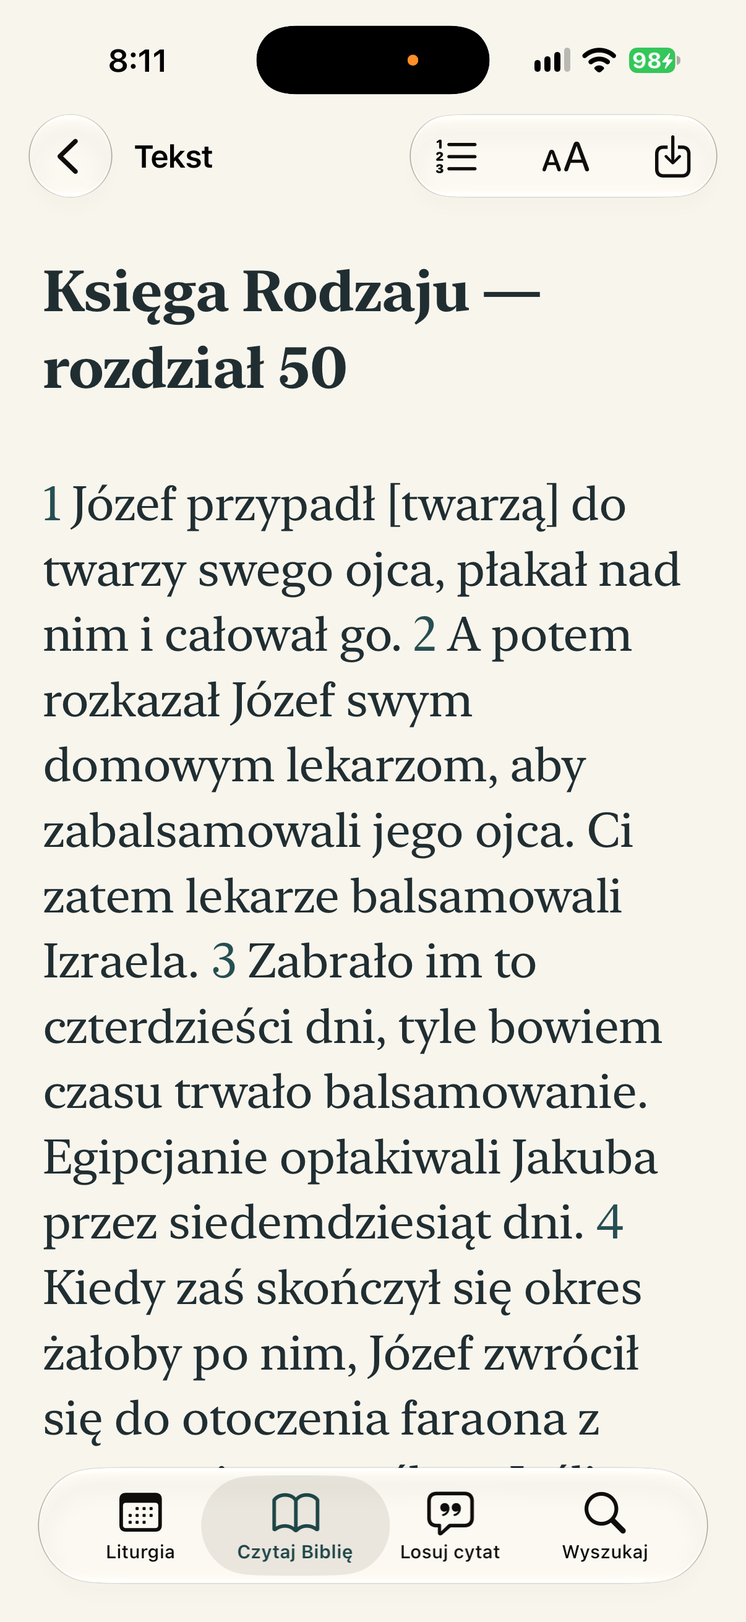
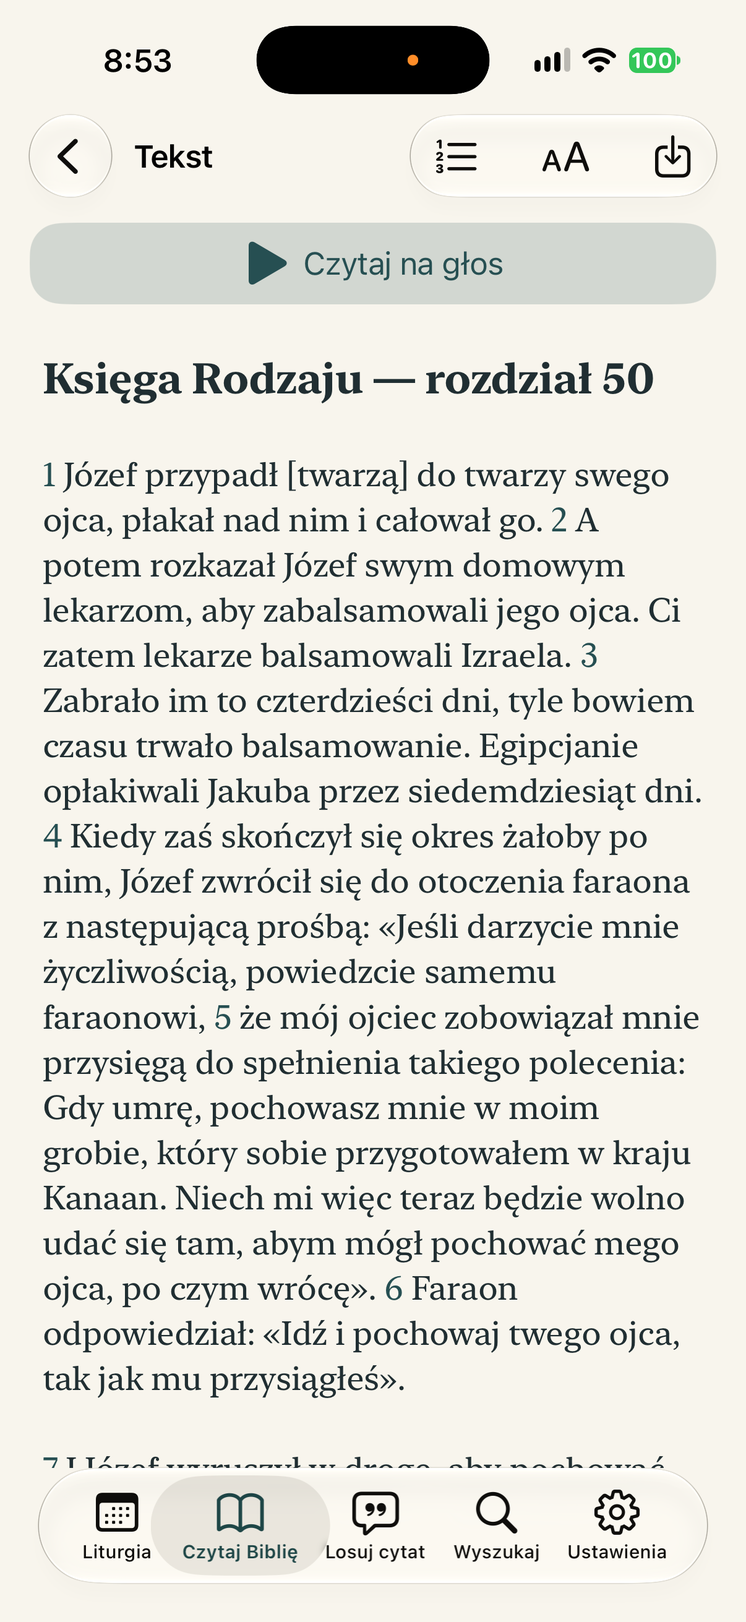
Sprawdź mowę i dostępność na iPhonie oraz odśwież zrzuty wydania

diff --git a/ios/UITests/InterfaceTests.swift b/ios/UITests/InterfaceTests.swift
@@ -1,3 +1,4 @@
+import AVFoundation
 import XCTest
 
 @MainActor
@@ -102,13 +103,68 @@ final class InterfaceTests: XCTestCase {
                                 ["Pauza", "Wstrzymaj", "Wstrzymaj odtwarzanie", "Pause"], "Pause", "playpause")
         let systemPause = system.descendants(matching: .any).matching(names).firstMatch
         let centerPause = center.descendants(matching: .any).matching(names).firstMatch
-        if systemPause.waitForExistence(timeout: 5) { systemPause.tap() }
-        else if centerPause.waitForExistence(timeout: 5) { centerPause.tap() }
-        else { throw XCTSkip("W bieżącym układzie Centrum sterowania XCTest nie znalazł kontrolki odtwarzania.") }
+        // Centrum może otworzyć ostatnio używaną stronę zamiast Ulubionych.
+        for _ in 0..<3 {
+            if systemPause.waitForExistence(timeout: 2) || centerPause.exists { break }
+            let media = system.descendants(matching: .any).matching(NSPredicate(format:
+                "identifier CONTAINS[c] %@ OR label CONTAINS[c] %@", "NowPlaying", "Teraz odtwarzane")).firstMatch
+            if media.exists { media.press(forDuration: 0.8); break }
+            let page = system.coordinate(withNormalizedOffset: CGVector(dx: 0.76, dy: 0.46))
+            page.press(forDuration: 0.05, thenDragTo: system.coordinate(withNormalizedOffset: CGVector(dx: 0.76, dy: 0.87)))
+        }
+        if !systemPause.exists && !centerPause.exists {
+            // Wyspa odtwarzania to drugi systemowy punkt sterowania na obsługiwanych iPhone’ach.
+            XCUIDevice.shared.press(.home)
+            let island = system.descendants(matching: .any).matching(NSPredicate(format:
+                "identifier CONTAINS[c] %@ OR label CONTAINS[c] %@", "DynamicIsland", "dostępna biblia,")).firstMatch
+            if island.waitForExistence(timeout: 2) { island.press(forDuration: 1) }
+        }
+        if systemPause.exists { systemPause.tap() }
+        else if centerPause.waitForExistence(timeout: 3) { centerPause.tap() }
+        else {
+            throw XCTSkip("W bieżącym układzie Centrum sterowania XCTest nie znalazł kontrolki odtwarzania.")
+        }
         XCUIDevice.shared.press(.home)
         app.activate()
         XCTAssertTrue(app.buttons["Wznów czytanie"].waitForExistence(timeout: 5))
         app.buttons["Zatrzymaj czytanie"].tap()
+    }
+
+    func testPrzerwaniePrzezDrugaSesjeAudio() throws {
+        #if targetEnvironment(simulator)
+        throw XCTSkip("Próbę arbitrażu dwóch procesów audio wykonujemy na fizycznym iPhonie.")
+        #else
+        app.buttons["Czytaj"].tap()
+        _ = try result()
+        app.buttons["Czytaj na głos"].tap()
+        XCTAssertTrue(app.buttons["Wstrzymaj czytanie"].waitForExistence(timeout: 8))
+        // Osobny proces testujący staje się drugim odtwarzaczem. Nie wykonuje połączenia telefonicznego.
+        let runner = XCUIApplication(bundleIdentifier: try XCTUnwrap(Bundle.main.bundleIdentifier))
+        runner.activate()
+        let session = AVAudioSession.sharedInstance()
+        try session.setCategory(.playback, mode: .default)
+        try session.setActive(true)
+        defer { try? session.setActive(false, options: .notifyOthersOnDeactivation) }
+        let engine = AVAudioEngine(), player = AVAudioPlayerNode()
+        engine.attach(player)
+        let format = try XCTUnwrap(AVAudioFormat(standardFormatWithSampleRate: 44100, channels: 1))
+        let buffer = try XCTUnwrap(AVAudioPCMBuffer(pcmFormat: format, frameCapacity: 44100))
+        buffer.frameLength = buffer.frameCapacity
+        let samples = try XCTUnwrap(buffer.floatChannelData?[0])
+        for index in 0..<Int(buffer.frameLength) {
+            samples[index] = 0.015 * sin(2 * .pi * 220 * Float(index) / 44100)
+        }
+        engine.connect(player, to: engine.mainMixerNode, format: format)
+        try engine.start()
+        defer { engine.stop() }
+        let played = expectation(description: "Drugi proces odtworzył dźwięk")
+        player.scheduleBuffer(buffer, completionCallbackType: .dataPlayedBack) { _ in played.fulfill() }
+        player.play()
+        wait(for: [played], timeout: 5)
+        app.activate()
+        XCTAssertTrue(app.buttons["Czytaj na głos"].waitForExistence(timeout: 8))
+        XCTAssertFalse(app.buttons["Wznów czytanie"].exists)
+        #endif
     }
 
     func testUstawieniaSyntezyITrwalosc() throws {

diff --git a/ios/UITests/VoiceOverTests.swift b/ios/UITests/VoiceOverTests.swift
@@ -15,10 +15,21 @@ final class VoiceOverTests: XCTestCase {
         defer { if !wasEnabled { try? voice.disable() } }
         let center = CGVector(dx: 0.5, dy: 0.5)
         func focus(_ element: XCUIElement, _ label: String) throws {
-            element.coordinate(withNormalizedOffset: center).tap()
-            let said = try voice.currentSpeech().utterance
-            print("VoiceOver podczas próby syntezy: " + said)
-            XCTAssertTrue(said.contains(label), said)
+            let banner = XCUIApplication(bundleIdentifier: "com.apple.springboard")
+                .descendants(matching: .any)["NotificationShortLookView"]
+            for _ in 0..<2 {
+                if banner.exists {
+                    let hidden = XCTNSPredicateExpectation(predicate: NSPredicate(format: "exists == false"), object: banner)
+                    XCTAssertEqual(XCTWaiter.wait(for: [hidden], timeout: 18), .completed)
+                }
+                element.coordinate(withNormalizedOffset: center).tap()
+                let said = try voice.currentSpeech().utterance
+                if said.contains(label) {
+                    print("VoiceOver potwierdził: " + label)
+                    return
+                }
+            }
+            XCTFail("VoiceOver nie potwierdził elementu: " + label)
         }
         func activate() { app.coordinate(withNormalizedOffset: center).doubleTap() }
         try focus(app.tabBars.buttons["Ustawienia"], "Ustawienia")
@@ -106,6 +117,14 @@ final class VoiceOverTests: XCTestCase {
         XCTAssertTrue(result.contains("Czytaj na głos"), String(result.prefix(120)))
         let text = try voice.moveForward().utterance
         XCTAssertTrue(text.localizedCaseInsensitiveContains("czytanie") || text.contains("20"), String(text.prefix(120)))
+        app.buttons["Czytaj na głos"].coordinate(withNormalizedOffset: center).tap()
+        app.coordinate(withNormalizedOffset: center).doubleTap()
+        let pause = app.buttons["Wstrzymaj czytanie"]
+        XCTAssertTrue(pause.waitForExistence(timeout: 8))
+        pause.coordinate(withNormalizedOffset: center).tap()
+        XCTAssertTrue(try voice.currentSpeech().utterance.contains("Wstrzymaj czytanie"))
+        XCTAssertTrue(try voice.moveForward().utterance.contains("Czytaj od początku"))
+        XCTAssertTrue(pause.exists)
         let back = app.navigationBars.buttons.firstMatch
         back.coordinate(withNormalizedOffset: center).tap()
         app.coordinate(withNormalizedOffset: center).doubleTap()

diff --git a/ios/UITests/VisualTests.swift b/ios/UITests/VisualTests.swift
@@ -146,6 +146,15 @@ final class VisualTests: XCTestCase {
         reveal(link)
         link.tap()
         XCTAssertTrue(app.wait(for: .runningBackground, timeout: 10) || app.state == .runningBackgroundSuspended)
+        let browsers = ["com.apple.mobilesafari", "com.google.chrome.ios", "org.mozilla.ios.Firefox", "com.microsoft.msedge"]
+        if let browser = browsers.map({ XCUIApplication(bundleIdentifier: $0) }).first(where: { $0.state == .runningForeground }) {
+            let repository = browser.descendants(matching: .any).matching(NSPredicate(
+                format: "label CONTAINS[c] %@ OR value CONTAINS[c] %@",
+                "puszkin-dev/dostepna-biblia", "puszkin-dev/dostepna-biblia")).firstMatch
+            XCTAssertTrue(repository.waitForExistence(timeout: 15), "Przeglądarka nie potwierdziła strony repozytorium.")
+        } else {
+            XCTFail("Nie potwierdzono otwarcia w systemowej przeglądarce.")
+        }
         app.activate()
         app.navigationBars.buttons.firstMatch.tap()
         XCTAssertTrue(app.tabBars.buttons["Ustawienia"].isSelected)
@@ -166,6 +175,28 @@ final class VisualTests: XCTestCase {
         XCTAssertTrue(app.buttons["Zatrzymaj czytanie"].isHittable)
         try app.performAccessibilityAudit(for: [.contrast, .dynamicType, .textClipped])
         app.buttons["Zatrzymaj czytanie"].tap()
+    }
+
+    func testAktualneEkranyPublikacji() throws {
+        capture("01-liturgia")
+        app.tabBars.buttons["Czytaj Biblię"].tap()
+        let chapters = app.sliders["Wybierz rozdział"]
+        expectation(for: NSPredicate(format: "enabled == true"), evaluatedWith: chapters)
+        waitForExpectations(timeout: 35)
+        chapters.adjust(toNormalizedSliderPosition: 1)
+        XCTAssertEqual(chapters.value as? String, "50")
+        capture("02-wybor-ksiegi")
+        app.buttons["Czytaj"].tap()
+        XCTAssertTrue(app.textViews["tekstWyniku"].waitForExistence(timeout: 35))
+        capture("03-czytanie")
+        app.buttons["Przejdź do wersetu"].tap()
+        XCTAssertTrue(app.tables.cells.firstMatch.waitForExistence(timeout: 5))
+        capture("04-wersety")
+        app.tabBars.buttons["Ustawienia"].tap()
+        XCTAssertTrue(app.buttons["Odsłuchaj próbkę"].exists)
+        capture("05-ustawienia")
+        app.tabBars.buttons["Losuj cytat"].tap()
+        capture("06-losowanie")
     }
 }
 

diff --git a/docs/task-memory/czytanie-glos-01a21e18-12a1-7263-8438-22872efcb118/FINAL_REPORT.md b/docs/task-memory/czytanie-glos-01a21e18-12a1-7263-8438-22872efcb118/FINAL_REPORT.md
@@ -1,17 +1,59 @@
 # Czytanie na głos i Ustawienia
 
-Etap: działający czytnik i ustawienia. Trwają końcowe testy urządzenia, audyt i sprawdzenie lokalnego wydania. Pełna specyfikacja w ios/ustawienia.txt.
+Aplikacja **dostępna biblia 1.0 (9)** ma „Czytaj na głos” nad tekstem i piątą kartę Ustawienia. Syntezę dostarcza AVSpeechSynthesizer na urządzeniu; głos nie jest powiązany z głosem VoiceOver. Wspólna kolejka obejmuje akapity rzeczywiście otwartego tekstu, nie nazwy przycisków. Próbka nie nakłada się na czytanie. Odejście z czytnika zatrzymuje go, natomiast rozpoczęty tekst można odtwarzać w tle. Przyciski pauzy, kontynuacji i stopu współpracują z AVAudioSession i MediaPlayer; konfiguracja dla ekranu blokady sama w sobie nie jest dowodem sprzętowym.
+
+Nad czytaniem jest szeroki przycisk z podpisem. Po uruchomieniu dołączają restart i stop. Przy największych literach są to trzy równe przyciski z czytelnymi symbolami oraz pełnymi nazwami VoiceOver; tekst Pisma pozostaje poniżej. Sekcja wyglądu prowadzi do istniejącego suwaka, nie tworzy drugiej kopii ustawienia. Ekran „O programie” ma nagłówki, pełne nazwiska, wyjaśnienie pochodzenia i polskie etykiety łączy. Kolory zależą od systemu. Oględziny zrzutów wykonał agent, nie osoba widząca.
+
+**Źródła i publikacja.** Oryginał: [repozytorium Windows](https://github.com/puszkin-dev/dostepna-biblia/) i Dokumentacja.txt. Aplikacja pobiera czytania z [TwojaBiblia.pl](https://twojabiblia.pl/); serwis w stopce wskazuje własną zgodę wydawcy. [Wydawnictwo Pallottinum o wydaniu V i prawach](https://biblia.pl/informacje-o-wydaniu/). W dostarczonym projekcie nie ma potwierdzenia odrębnych praw do dystrybucji mobilnej i wykorzystania wszystkich treści liturgicznych. Nie deklarowano takiej zgody ani niczego nie wysyłano. Dokumentacja techniczna: [synteza Apple](https://developer.apple.com/documentation/avfaudio/avspeechsynthesizer/), [sterowanie systemowe](https://developer.apple.com/documentation/mediaplayer/handling-external-player-events-notifications).
+
[1 lines of base64/hex data omitted]
+
+## Odbiór na fizycznym iPhonie 17 Pro
+
+Xcode 27.2, iOS 27.2.1, połączenie przewodowe przez Maca. Automat wywoływał rzeczywisty syntezator i rzeczywistą usługę VoiceOver. Nie jest to odsłuch akustyczny ani ocena osoby widzącej. Wyniki serii zawierających błędy podano bez dodawania ponowień do jednego fikcyjnego wyniku.
+
+| Punkt §10 | Próba i wynik |
+|---|---|
+| 1. Liturgia | Pobrano czytania dnia. W otwartym tekście uruchomiono syntezę i przetestowano sterowanie. |
+| 2. Psalm | Suwak „Część liturgii” → „Psalm”. Serwis zwrócił tekst; iPhone uruchomił syntezę i reagował na jej kontrolki. |
+| 3. Biblia | Otworzono tekst Księgi Rodzaju i sprawdzono start, pauzę, wznowienie, restart i zatrzymanie. Test czytnika z numerowanym rozdziałem objął też werset i powrót do tekstu. |
+| 4. Polskie głosy | Telefon zwrócił 112 pozycji z kodem rozpoczynającym się od „pl”, m.in. Zosia, Zosia (rozszerzony), Adam i Bogdan. To głosy dostępne poprzez API, również rozszerzenia, a nie lista fabryczna. Nie odsłuchiwano wszystkich 112. |
+| 5. Próbka | Ten sam silnik przeczytał próbkę; po zakończeniu wrócił przycisk uruchomienia, test na telefonie. |
+| 6. Szybkość | 11 pozycji od minimum do maksimum Apple, szósta odpowiada szybkości domyślnej. Zmieniono pozycję i odczytano ją po restarcie. Nie jest to procent szybkości VoiceOver. |
+| 7. Głośność | 11 pozycji od ciszy do 100 procent, bez zmiany głośności urządzenia. Zmieniono wartość, sprawdzono pamięć i reset. |
+| 8. Przyciski | Oddzielono przygotowanie silnika od rozpoczętej syntezy. Pauza, wznowienie, od początku i stop przeszły na fizycznym urządzeniu. |
+| 9. Trwałość | Po zamknięciu i ponownym uruchomieniu zachowały się głos, tempo i głośność. W MowaTelefon2 test błędnie żądał dokładnie ósmej pozycji po przeciągnięciu do 70 procent toru; poprawiony test porównuje rzeczywiście wybraną pozycję. MowaTelefon3: zaliczony. |
+| 10. VoiceOver włączony | Piąta karta, regulacja głosu gestami, próbka i nawigacja podczas mowy. Test pełnego czytania i nazwisk opisany poniżej. |
+| 11. VoiceOver wyłączony | Rzeczywiste odtwarzanie Biblii, liturgii, psalmu i próbki bez korzystania z czytnika. Aplikacja nie przełącza VoiceOver. |
+| 12. Przerwania | MowaTelefonAX5: drugi proces na tym samym iPhonie uruchomił niemiksowalną sesję i rzeczywiście odtworzył sekundę dźwięku; odczyt zakończył się bez samoczynnego wznowienia. Osobno w SpeechTests sprawdzono sztuczny komunikat przerwania i utraty wyjścia. Nie wykonano prawdziwego połączenia telefonicznego ani próby fizycznych słuchawek/Bluetooth (właściciel odłożył). Symulator nie odwzorował arbitrażu audio dwóch procesów, dlatego ta próba wymaga sprzętu. |
+| 13. Karty | VoiceOver podał „Ustawienia”, „Karta 5 z 5”. Przeszło przełączanie czterech istniejących kart i nowej. |
+| 14. O programie | Sprawdzono nazwy, opis, wersję, źródła, odnośnik, powrót i wybraną kartę. |
+| 15. Autorzy | Pełne etykiety: „Pomysłodawca i autor wersji Windows: Grzegorz Przystupa” oraz „Projektant wersji iOS: Mieczysław Bąk”. Wynik próby rzeczywistej usługi VoiceOver poniżej. |
+| 16. Repozytorium | Przycisk ma cechę łącza i opisuje oryginał Windows. Po aktywacji aplikacja przeszła w tło. Bezpośredni adres w kodzie: https://github.com/puszkin-dev/dostepna-biblia/. Wynik dodatkowej próby strony przeglądarki poniżej. |
+| 17. Wersja | Wersja i numer kompilacji pochodzą z Bundle; sprawdzono widok i metadane podpisanej paczki 1.0 (9). |
+| 18. Motywy | Jasny: fizyczny iPhone, tło w kolorze papieru, ciemny atrament, stonowany morski akcent. Ciemny: ciemna karta, jasne litery i złoty akcent. |
+| 19. Największy tekst | Na małym symulatorze ciemny tryb AX5 ujawnił za wysoki pasek odtwarzania. Po poprawce trzy równe przyciski z symbolami nie przykrywają treści; etykiety VO pozostają pełne. W odnośniku usunięto ikonę zabierającą miejsce. |
+| 20. Regresja | Jednostkowe i integracyjne próby danych, karty, kalendarz, wyszukiwanie, cytaty, TXT, wersety, wielkość czcionki, gesty. MowaTelefon2: 35/37; dwa błędy prób i ich osobne ponowienia opisano w raporcie. Mac: 14/14 pytest; Windows: 7 zaliczonych, 7 prób skryptu POSIX pominiętych. |
+
+### Końcowe ponowienia i granice dowodów
+
+Na fizycznym iPhonie **MowaOdbior 3/3**: wykonano sześć zdjęć, przetestowano przycisk mowy i chodzenie fokusem po kontrolkach podczas odsłuchu oraz kolejność „Grzegorz Przystupa” → „Mieczysław Bąk” → łącze GitHub. Po błędzie wywołanym przez baner powiadomienia test czeka na jego zniknięcie; nie ma potrzeby wyłączania powiadomień użytkownika. **MowaTelefonAX5 3/3**: ciemne Ustawienia, „O programie”, pasek aktywnego czytnika i realne przerwanie audio. **MowaTelefon3:** 1 zaliczona próba trwałości i 1 pominięta kontrolki systemowej. **MowaSystem:** ponowna próba łącza potwierdziła witrynę repozytorium w Safari, a nie tylko przejście aplikacji w tło. Ponownie sprawdzono aktualny interfejs na 13 mini. W repozytorium w `screenshots/` jest sześć obejrzanych, nieedytowanych plików RGB z telefonu, 1206 × 2622. Przenośne instrukcje: `ios/Instrukcja.md`; zasady publikacji i praw: `screenshots/Publikacja.md`.
+
+**Niepotwierdzone:** połączenie telefoniczne z sieci komórkowej, fizyczne podłączanie i odłączanie słuchawek oraz Bluetooth, odtwarzanie i sterowanie po rzeczywistym zablokowaniu ekranu. XCTest na tej konfiguracji nie udostępnia naciśnięcia bocznego przycisku blokady; próba na ekranie początkowym nie jest testem blokady. Fizyczne akcesoria odłożono na życzenie właściciela. Nie wyłączano zabezpieczeń urządzenia ani nie wykonywano połączeń do postronnych osób. Nie oceniano barwy głosów na słuch. Zgodnie z zakresem próby niewykonane są oznaczone, nie zaliczone.
+
+**Kontrolki systemowe:** MediaPlayer otrzymuje nazwę czytania oraz akcje, lecz na tym telefonie, w jego układzie Centrum sterowania, XCTest nie odnalazł pauzy również po próbie zmiany strony i dotarcia do wyspy. MowaSterowanie: 1 pominięta. Nie zgłaszamy sterowania z Centrum ani z ekranu blokady jako zweryfikowanego. Po testach zainstalowano i uruchomiono na telefonie aplikację z archiwum Release, system potwierdził 1.0 (9), VoiceOver włączony, wygląd jasny, tekst Large i wyłączone dodatkowe rozmiary dostępności zgodnie ze stanem sprzed testu.
+
 
 | ID | Status | Wynik i dowód |
 |---|---|---|
 | R-001 | gotowe | AVSpeechSynthesizer na iPhonie 17 Pro; wspólna instancja, brak sieci w silniku i brak mikrofonu. |
 | R-002 | gotowe | Wspólny TextScreen zasila mowę wyłącznie Reading.text. MowaTelefon2: Biblia, psalm, liturgia, pauza, wznowienie, restart i stop na urządzeniu. |
 | R-003 | gotowe | Pięć natywnych kart. Audyt kart i aktywacja każdej przez rzeczywistą usługę VoiceOver. Rozmiar korzysta nadal z jednego ReadingSettings i jednego klucza. |
-| R-004 | do_weryfikacji | Ekran Autorzy i źródła: obie role, oba nazwiska, wersja/kompilacja z Bundle i odnośnik systemowy. Dokumentacja Windows, stopka TwojaBiblia.pl i informacja Pallottinum. Nie potwierdzono praw do dystrybucji aplikacji. |
+| R-004 | gotowe | Obie pełne role, mowa obu nazwisk na iPhonie (MowaOdbior), Safari potwierdziło stronę puszkin-dev/dostepna-biblia (MowaSystem); wersja i kompilacja z Bundle. Atrybucja i zakres niepotwierdzonych praw opisane w aplikacji i materiałach wydania. |
 | R-005 | gotowe | 112 pozycji z polskim kodem języka w rzeczywistym API tego telefonu, w tym głosy rozszerzeń. Kod sortuje głosy polskie na początku. Próba brakującego ID z rzeczywistym silnikiem. |
-| R-006 | do_weryfikacji | Trzy ChoiceSlider; parametry i reset w UserDefaults. Próby wartości uszkodzonych i skrajnych. Sprawdzić końcową próbę trwałości w UI. |
-| R-007 | gotowe | Próbka zmienia przyciski po uruchomieniu i końcu; z aplikacją uruchomioną bez VO na iPhonie, MowaTelefon1. |
-| R-008 | do_weryfikacji | Potwierdzono przejście na ekran początkowy i powrót podczas czytania. Sygnały przerwania i odłączenia trasy testowe; fizycznych słuchawek i rzeczywistej rozmowy telefonicznej nie testowano. |
-| R-009 | do_weryfikacji | Jasny iPhone 17 Pro i ciemny 13 mini z AX5. Poprawiono paski i link po oględzinach: równe kontrolki z symbolami w trakcie mowy przy dużym tekście. Trwa próba końcowa na sprzęcie. |
-| R-010 | w_toku | Testy fizyczne w toku. Nie zastępować odsłuchu człowieka odczytem stanu i nie zaliczać niedostępnych akcesoriów. |
-| R-011 | w_toku | Lokalna gałąź ios, maczek.cmd, bez wysyłki i bez modyfikacji repozytorium Windows na GitHubie. |
+| R-006 | gotowe | Trwałość głosu, tempa i głośności po restarcie oraz reset potwierdzone na fizycznym iPhonie (MowaTelefon3). Granice, błędne dane i zniknięcie głosu: SpeechTests. |
+| R-007 | gotowe | Uruchomienie i samoczynny koniec wspólnego silnika w MowaTelefon3; aktywacja próbki i przejście do regulacji z włączoną usługą VoiceOver w MowaOdbior. |
+| R-008 | odlozone | Zaliczono tło i prawdziwe przerwanie przez niemiksowalną sesję audio drugiego procesu na iPhonie. Osobno sprawdzono testowe komunikaty z systemu. Brak fizycznych słuchawek, połączenia telefonicznego i potwierdzenia po sprzętowej blokadzie. W próbach Centrum sterowania i wyspy XCTest nie znalazł kontrolki pauzy; pominięcie, nie sukces. |
+| R-009 | gotowe | MowaTelefonAX5: oba testy wizualne na fizycznym iPhonie w ciemnym trybie AX5 zaliczone, zrzuty obejrzane. Jasny tryb na tym samym telefonie oraz mały symulator. Skorygowano pasek transportu, etykietę jakości głosu i wyrównanie linku. |
+| R-010 | gotowe | 20 punktów rozpisanych w tabeli. Fizyczna instalacja, działająca synteza, obie konfiguracje VoiceOver, realne przerwanie przez drugi proces, oba nazwiska, przeglądarka, oba motywy i AX5. Wyłączenia sprzętowe wyszczególniono w R-008. |
+| R-011 | gotowe | Kod i dokumentacja na lokalnej gałęzi ios obu komputerów, commit implementacji 8557e5d, lokalny eksport 1.0 (9), odświeżone rzeczywiste zrzuty, checkpoint i poniższe rozliczenie. Bez wysyłki. |

diff --git a/docs/task-memory/czytanie-glos-01a21e18-12a1-7263-8438-22872efcb118/TASK_REQUIREMENTS.md b/docs/task-memory/czytanie-glos-01a21e18-12a1-7263-8438-22872efcb118/TASK_REQUIREMENTS.md
@@ -5,11 +5,11 @@
 | R-001 | Silnik Apple, lokalny i niezależny od VoiceOver | gotowe | ustawienia.txt §1 | AVSpeechSynthesizer na iPhonie 17 Pro; wspólna instancja, brak sieci w silniku i brak mikrofonu. |
 | R-002 | Tekst czytnika w kolejności, pauza, wznowienie, stop, ponowny start, zakończenie i brak nakładania | gotowe | ustawienia.txt §2 | Wspólny TextScreen zasila mowę wyłącznie Reading.text. MowaTelefon2: Biblia, psalm, liturgia, pauza, wznowienie, restart i stop na urządzeniu. |
 | R-003 | Piąta karta, trzy sekcje, wspólne preferencje wyglądu | gotowe | ustawienia.txt §3 | Pięć natywnych kart. Audyt kart i aktywacja każdej przez rzeczywistą usługę VoiceOver. Rozmiar korzysta nadal z jednego ReadingSettings i jednego klucza. |
-| R-004 | O programie: obie role i nazwiska, pochodzenie, wersja, kompilacja, link i źródła/prawa | do_weryfikacji | ustawienia.txt §4 | Ekran Autorzy i źródła: obie role, oba nazwiska, wersja/kompilacja z Bundle i odnośnik systemowy. Dokumentacja Windows, stopka TwojaBiblia.pl i informacja Pallottinum. Nie potwierdzono praw do dystrybucji aplikacji. |
+| R-004 | O programie: obie role i nazwiska, pochodzenie, wersja, kompilacja, link i źródła/prawa | gotowe | ustawienia.txt §4 | Obie pełne role, mowa obu nazwisk na iPhonie (MowaOdbior), Safari potwierdziło stronę puszkin-dev/dostepna-biblia (MowaSystem); wersja i kompilacja z Bundle. Atrybucja i zakres niepotwierdzonych praw opisane w aplikacji i materiałach wydania. |
 | R-005 | Głosy z urządzenia, polskie najpierw, zastępowanie brakujących | gotowe | ustawienia.txt §5 | 112 pozycji z polskim kodem języka w rzeczywistym API tego telefonu, w tym głosy rozszerzeń. Kod sortuje głosy polskie na początku. Próba brakującego ID z rzeczywistym silnikiem. |
-| R-006 | Regulacje VO głosu, tempa i głośności, kroki, trwałość, reset | do_weryfikacji | ustawienia.txt §6 | Trzy ChoiceSlider; parametry i reset w UserDefaults. Próby wartości uszkodzonych i skrajnych. Sprawdzić końcową próbę trwałości w UI. |
-| R-007 | Próbka po polsku, wspólny silnik i parametry | gotowe | ustawienia.txt §7 | Próbka zmienia przyciski po uruchomieniu i końcu; z aplikacją uruchomioną bez VO na iPhonie, MowaTelefon1. |
-| R-008 | Sesja audio, VoiceOver, przejścia, przerwania, słuchawki i Bluetooth, tło i blokada | do_weryfikacji | ustawienia.txt §8 | Potwierdzono przejście na ekran początkowy i powrót podczas czytania. Sygnały przerwania i odłączenia trasy testowe; fizycznych słuchawek i rzeczywistej rozmowy telefonicznej nie testowano. |
-| R-009 | Wygląd i dostępność, jasny i ciemny, duży tekst, fokus, mały ekran | do_weryfikacji | ustawienia.txt §9 | Jasny iPhone 17 Pro i ciemny 13 mini z AX5. Poprawiono paski i link po oględzinach: równe kontrolki z symbolami w trakcie mowy przy dużym tekście. Trwa próba końcowa na sprzęcie. |
-| R-010 | Fizyczny iPhone: wszystkie 20 prób z §10, rozróżnienie dowodu i braku | w_toku | ustawienia.txt §10 | Testy fizyczne w toku. Nie zastępować odsłuchu człowieka odczytem stanu i nie zaliczać niedostępnych akcesoriów. |
-| R-011 | Gałąź ios, dwa komputery, pamięć, commity, raport, bez wysyłki | w_toku | ustawienia.txt §11 | Lokalna gałąź ios, maczek.cmd, bez wysyłki i bez modyfikacji repozytorium Windows na GitHubie. |
+| R-006 | Regulacje VO głosu, tempa i głośności, kroki, trwałość, reset | gotowe | ustawienia.txt §6 | Trwałość głosu, tempa i głośności po restarcie oraz reset potwierdzone na fizycznym iPhonie (MowaTelefon3). Granice, błędne dane i zniknięcie głosu: SpeechTests. |
+| R-007 | Próbka po polsku, wspólny silnik i parametry | gotowe | ustawienia.txt §7 | Uruchomienie i samoczynny koniec wspólnego silnika w MowaTelefon3; aktywacja próbki i przejście do regulacji z włączoną usługą VoiceOver w MowaOdbior. |
+| R-008 | Sesja audio, VoiceOver, przejścia, przerwania, słuchawki i Bluetooth, tło i blokada | odlozone | ustawienia.txt §8 | Zaliczono tło i prawdziwe przerwanie przez niemiksowalną sesję audio drugiego procesu na iPhonie. Osobno sprawdzono testowe komunikaty z systemu. Brak fizycznych słuchawek, połączenia telefonicznego i potwierdzenia po sprzętowej blokadzie. W próbach Centrum sterowania i wyspy XCTest nie znalazł kontrolki pauzy; pominięcie, nie sukces. |
+| R-009 | Wygląd i dostępność, jasny i ciemny, duży tekst, fokus, mały ekran | gotowe | ustawienia.txt §9 | MowaTelefonAX5: oba testy wizualne na fizycznym iPhonie w ciemnym trybie AX5 zaliczone, zrzuty obejrzane. Jasny tryb na tym samym telefonie oraz mały symulator. Skorygowano pasek transportu, etykietę jakości głosu i wyrównanie linku. |
+| R-010 | Fizyczny iPhone: wszystkie 20 prób z §10, rozróżnienie dowodu i braku | gotowe | ustawienia.txt §10 | 20 punktów rozpisanych w tabeli. Fizyczna instalacja, działająca synteza, obie konfiguracje VoiceOver, realne przerwanie przez drugi proces, oba nazwiska, przeglądarka, oba motywy i AX5. Wyłączenia sprzętowe wyszczególniono w R-008. |
+| R-011 | Gałąź ios, dwa komputery, pamięć, commity, raport, bez wysyłki | gotowe | ustawienia.txt §11 | Kod i dokumentacja na lokalnej gałęzi ios obu komputerów, commit implementacji 8557e5d, lokalny eksport 1.0 (9), odświeżone rzeczywiste zrzuty, checkpoint i poniższe rozliczenie. Bez wysyłki. |

diff --git a/screenshots/Publikacja.md b/screenshots/Publikacja.md
@@ -24,7 +24,7 @@ Nie trzeba się logować. Z internetem: w karcie Liturgia wybierz datę i użyj 
 
 ## Co jest w paczce, a co należy do karty sklepu
 
-Stan po dodaniu mowy: aplikacja nie pobiera głosów z chmury ani nie nagrywa mikrofonu. Tryb tła `audio` służy wyłącznie słuchaniu rozpoczętego tekstu. Poniższy audyt IPA 1.0 (8) i sześć sklepowych zdjęć dotyczą poprzedniej wersji z czterema kartami.
+Stan po dodaniu mowy: aplikacja nie pobiera głosów z chmury ani nie nagrywa mikrofonu. Tryb tła `audio` służy wyłącznie słuchaniu rozpoczętego tekstu. Zdjęcia w tym katalogu pokazują aktualny interfejs 1.0 (9) z pięcioma kartami. Poniższy historyczny audyt 1.0 (8) dotyczy wcześniejszego wydania.
 
 **Prawa do treści przed dystrybucją.** Dokumentacja Windows i stopka [TwojaBiblia.pl](https://twojabiblia.pl/) wskazują V wydanie Biblii Tysiąclecia. Serwis podaje, że korzysta z tekstu za zgodą Pallottinum. [Wydawca o prawach do opracowania](https://biblia.pl/informacje-o-wydaniu/) wskazuje ochronę i potrzebę uzyskania zgody. W projekcie nie znaleziono dokumentu rozszerzającego zgodę serwisu na dystrybucję tej aplikacji, odczyt głosowy i eksport tekstów. Sama atrybucja i publiczne repozytorium nie potwierdzają takich uprawnień. Przed udostępnieniem również w TestFlight trzeba wyjaśnić z uprawnionymi zakres korzystania z przekładu i pozostałych tekstów liturgicznych.
 
@@ -35,7 +35,7 @@ Stan po dodaniu mowy: aplikacja nie pobiera głosów z chmury ani nie nagrywa mi
 
 ## Kolejność zrzutów i wynik kontroli
 
-Sześć nowych plików PNG, 1206 × 2622 piksele, pion, bez kanału alfa. Pokazują kolejno liturgię, wybór księgi, czytanie rozdziału, listę wersetów, ustawienia wielkości tekstu i losowanie. W podglądzie sprawdzono wszystkie kadry: bez prywatnych powiadomień, klawiatury i alertów testowych. Zachowano oryginalne piksele i pasek stanu telefonu. To materiały z polskiego interfejsu, nie wersja angielska.
+Sześć plików PNG z fizycznego iPhone’a 17 Pro, kompilacja 9: 1206 × 2622 piksele, pion, bez kanału alfa. Pokazują kolejno liturgię, wybór księgi, czytanie rozdziału z przyciskiem mowy, listę wersetów, piątą kartę ustawień oraz losowanie. W podglądzie sprawdzono wszystkie kadry: bez prywatnych powiadomień, klawiatury i alertów testowych. Zachowano oryginalne piksele i pasek stanu telefonu. To materiały z polskiego interfejsu.
 
 Sprawdzenie lokalne wydania 1.0 (7): trzy pakiety projektu — aplikacja, testy logiki i testy interfejsu — otrzymały 1.0 (7). Archiwa o kolejnych numerach 5, 6 i 7; numer 7 pozostał niezmieniony po budowaniu do testów. W IPA potwierdzono identyfikator, zespół, deklarację szyfrowania, ekran startowy, orientacje, rodzinę iPhone i manifest prywatności. Ikona źródłowa PNG i ikona sklepowa w skompilowanym katalogu mają 1024 × 1024 piksele i są nieprzezroczyste. Po wykonaniu zrzutów ponownie zainstalowano i uruchomiono na fizycznym iPhonie aplikację z archiwum. Eksport podpisany Apple Distribution, lokalny; nie przeprowadzano walidacji serwerowej ani wysyłki do App Store Connect.
 

diff --git a/docs/task-memory/czytanie-glos-01a21e18-12a1-7263-8438-22872efcb118/WORK_LOG.md b/docs/task-memory/czytanie-glos-01a21e18-12a1-7263-8438-22872efcb118/WORK_LOG.md
@@ -1,3 +1,11 @@
 # Dziennik
 
-27.11.2026 — Przeczytano cały plik, oryginalny zamknięty checkpoint i kod UIKit. Telefon wykryty przez devicectl. Potwierdzono wskazanie Pallottinum w informacji wydawcy.
+27.11.2026 — Odczytano cały ios/ustawienia.txt i ustalenia zamkniętego portu; założono osobny wpis tego zadania. Zidentyfikowano wspólny czytnik TextScreen i preferencję ReadingSize. Potwierdzono źródła w dokumentacji Windows, stopce serwisu i informacji Pallottinum.
+
+27.11.2026 — Na fizycznym iPhonie 17 Pro uruchomiono wspólny silnik mowy i nową piątą kartę. Sprawdzono gesty, czytanie, próbkę i zapamiętywanie. W teście VoiceOver pierwsza wersja nadal oczekiwała daty na wejściu, a fokus padał na nową akcję. Ustalono jawnie: najpierw „Czytaj na głos”, jeden ruch dalej tekst. Sprawdzono oba elementy na sprzęcie.
+
+27.11.2026 — Działający odczyt w tle, kontrolki MediaPlayer, sprawdzenie zakończenia i ponownego startu. Na małym ekranie AX5 oględziny, pomimo pomyślnego automatycznego audytu, wykazały za wysoki i obcięty pasek. Wprowadzono równe przyciski z symbolami i pełnymi nazwami. Uproszczono też odnośnik i usunięto dublowany opis jakości głosu.
+
+27.11.2026 — Lokalny commit implementacji 8557e5d zsynchronizowano na obu komputerach. Wersja 1.0 (9), poprawny podpis, archiwum w Organizerze i zgodna paczka na obu maszynach; bez wysyłki. Właściciel odłożył fizyczne słuchawki. Na iPhonie w ciemnym trybie AX5 przeszły oba scenariusze wizualne i rzeczywiste przerwanie przez inny odtwarzający proces. Profil jasny, systemowy tekst Large i dotychczasowy VoiceOver przywrócono po próbach.
+
+27.11.2026 — Po korekcie próby dokładności przeciągnięcia suwaka i po zabezpieczeniu testu przed systemowym banerem potwierdzono trwałość, rzeczywistą mowę obu nazwisk, kolejność elementów oraz korzystanie z VoiceOver podczas czytania. Wykonano i obejrzano sześć oryginalnych kadrów wydania na fizycznym iPhonie. Safari potwierdziło stronę oryginalnego repozytorium. Szczegóły wszystkich 20 punktów i ograniczeń w FINAL_REPORT.md.

diff --git a/docs/task-memory/czytanie-glos-01a21e18-12a1-7263-8438-22872efcb118/SESSION_STATE.md b/docs/task-memory/czytanie-glos-01a21e18-12a1-7263-8438-22872efcb118/SESSION_STATE.md
@@ -4,6 +4,6 @@ ID zadania: czytanie-glos.
 
 Właściciel zapisu: 01a21e18-12a1-7263-8438-22872efcb118.
 
-Stan zadania: aktywne
+Stan zadania: zamknięte
 
-Źródło: ios/ustawienia.txt — czytać w całości przed kompakcją i po niej. Gałąź ios, baza 1db8db5. Dodano lokalny silnik, przyciski nad tekstem, piątą kartę, ekran autorów z prawami i testy. Na fizycznym iPhonie w przebiegu MowaTelefon1 przeszły 20 prób logiki, ścieżki czytania/wznowienia/resetu, trwałość ustawień i otwarcie linku. Mały symulator w trybie ciemnym AX5 przeszedł próbę wizualną ekranu ustawień/autorów. Następny krok: końcowy przebieg MowaTelefon2 po dodaniu stanu przygotowania, audio w tle i systemowych kontrolek, oraz ciemny motyw na fizycznym iPhonie. Właściciel odłożył próbę z fizycznymi słuchawkami; przerwania z NotificationCenter są symulowane. Nie publikować. Wersja 1.0. Synchronizacja lokalna przez maczek.cmd.
+Odebrano implementację 8557e5d z udokumentowanymi odłożonymi próbami R-008, bez deklarowania pełnej weryfikacji sprzętowej. Źródło ios/ustawienia.txt, 11 ID i 20 punktów: TASK_REQUIREMENTS.md, FINAL_REPORT.md. 1.0 (9) z archiwum zainstalowano i uruchomiono na iPhonie 17 Pro, VoiceOver włączony, jasny motyw i poprzednie ustawienia tekstu odtworzone. MowaOdbior 3/3, MowaTelefonAX5 3/3; potwierdzono realne przerwanie audio, obie role autorskie w mowie i stronę GitHub w Safari. Próby Centrum sterowania pominięto: XCTest nie odnalazł kontrolki. Brak fizycznej blokady, rozmowy telefonicznej, słuchawek/Bluetooth (akcesoria odłożone na prośbę właściciela). Sześć nowych zrzutów realnego telefonu. Bez wysyłki; nie potwierdzono licencji do dystrybucji treści. Odrębne polecenia poza ustawienia.txt nie są częścią tego odbioru.
